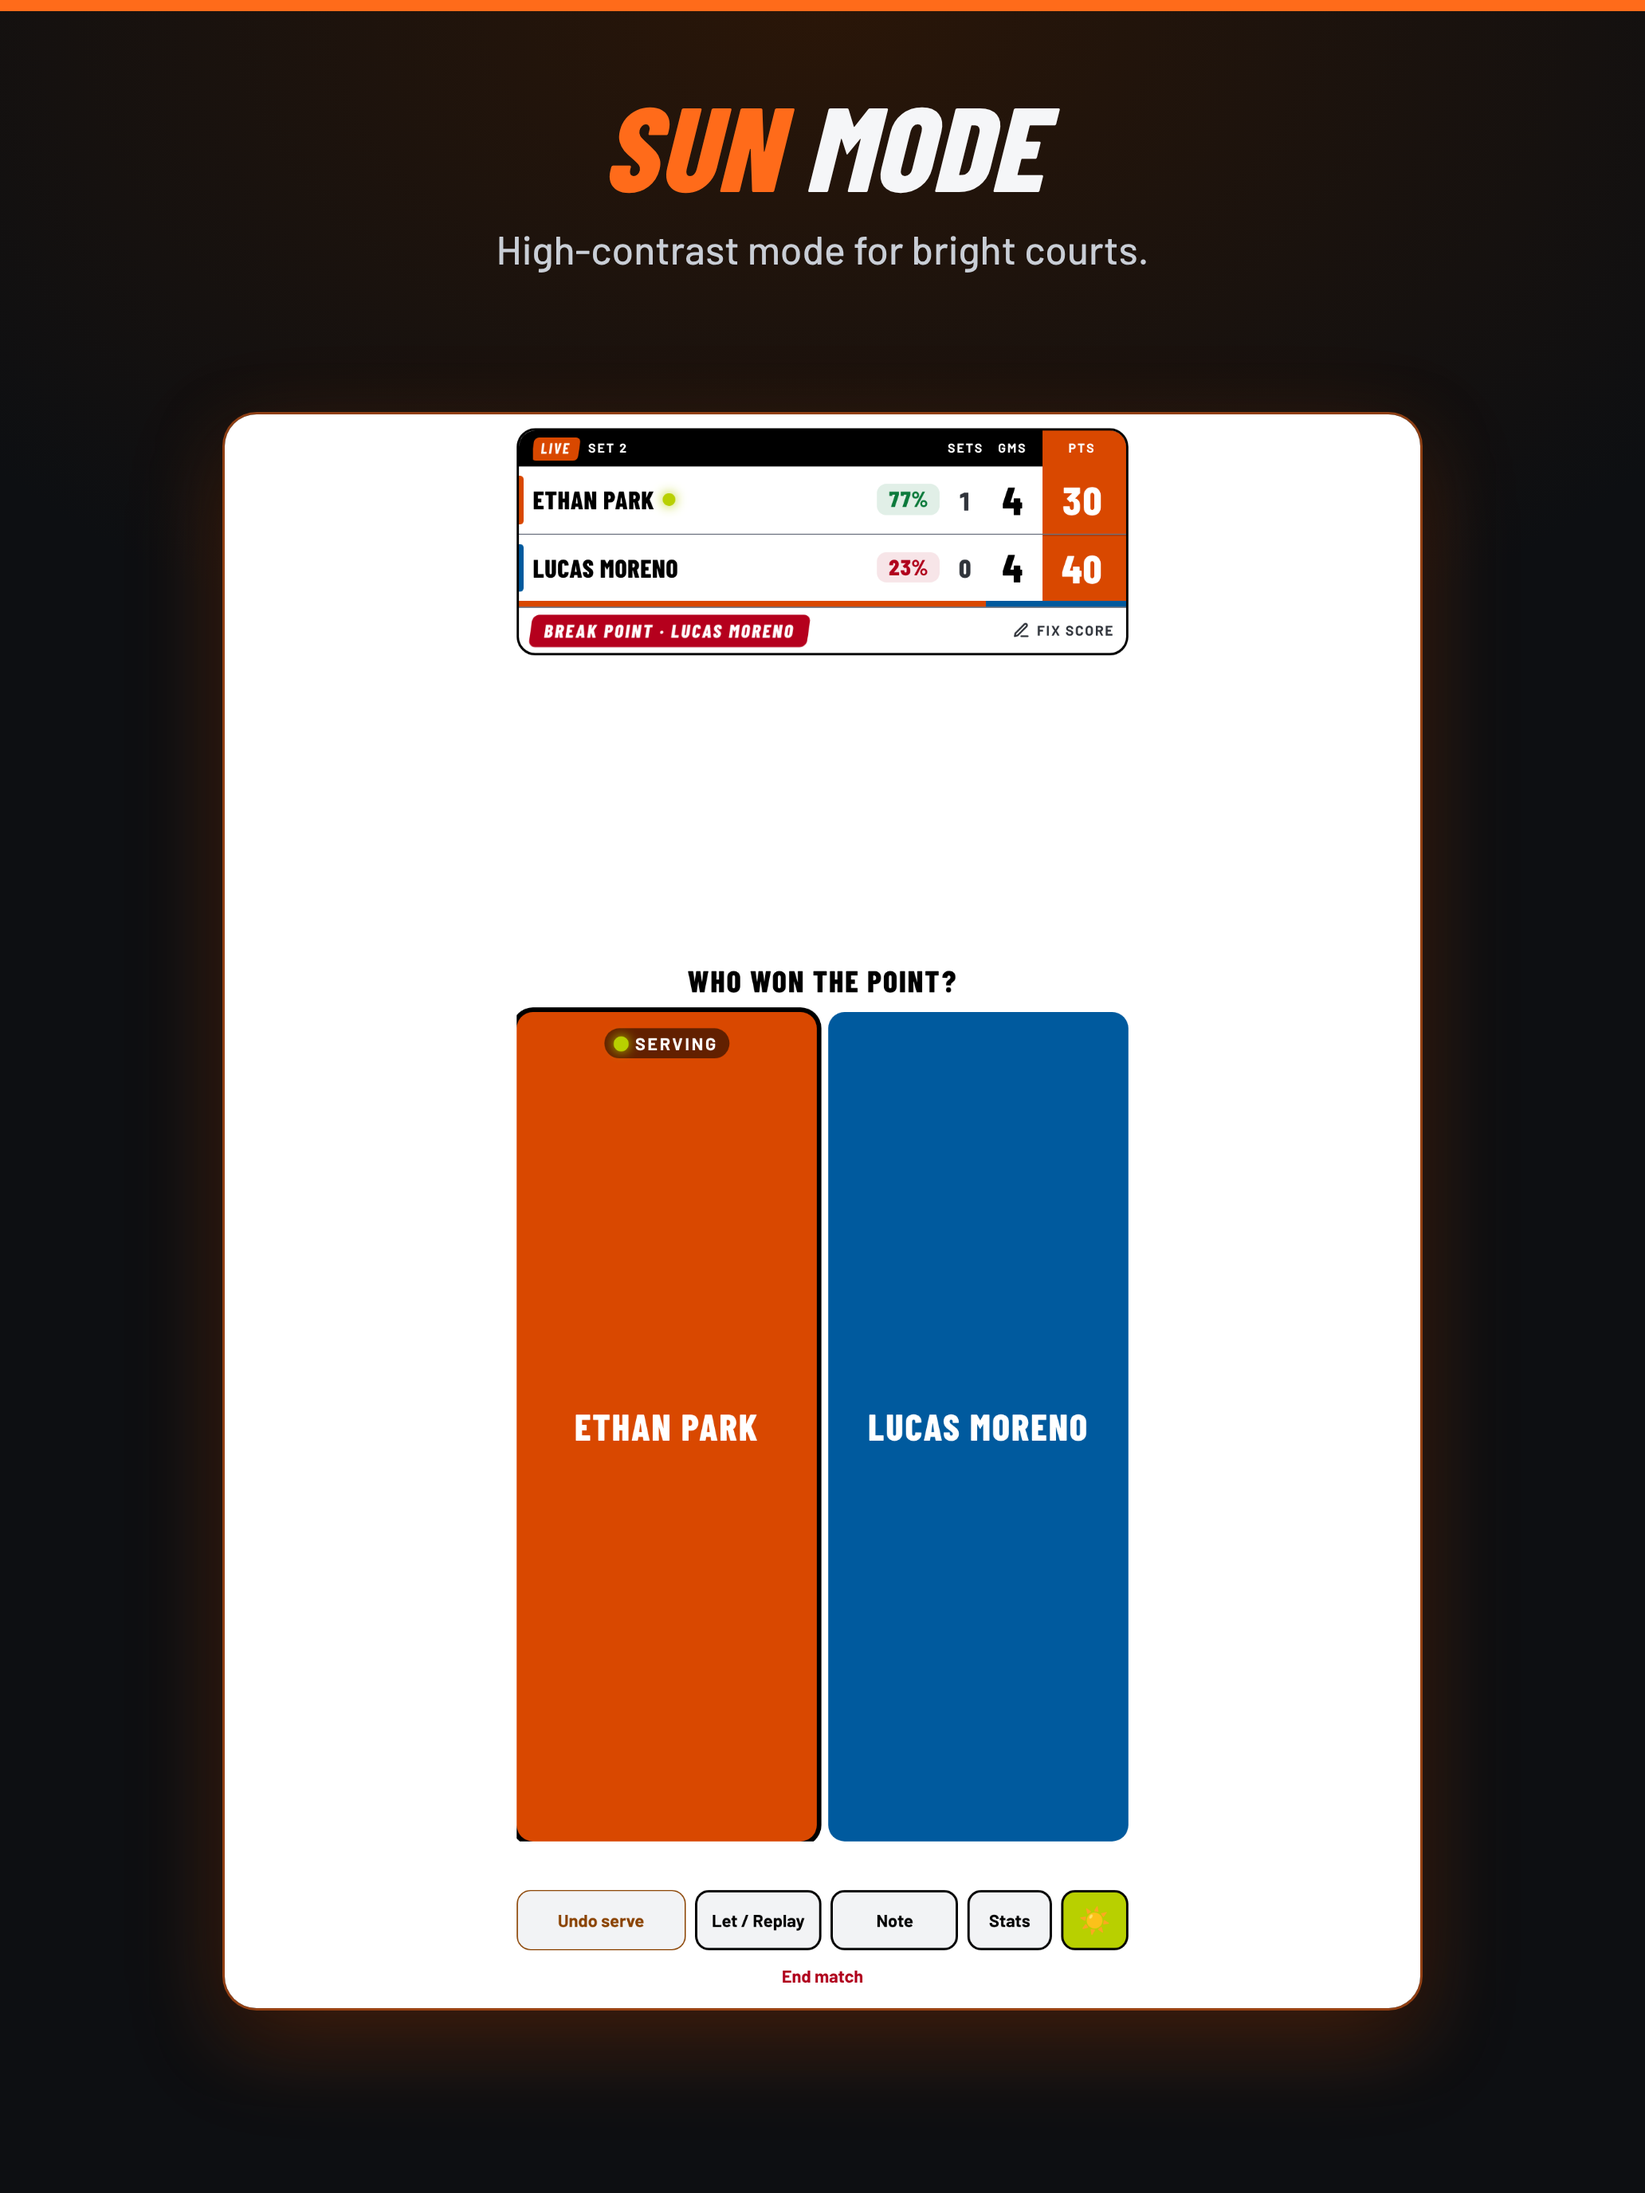
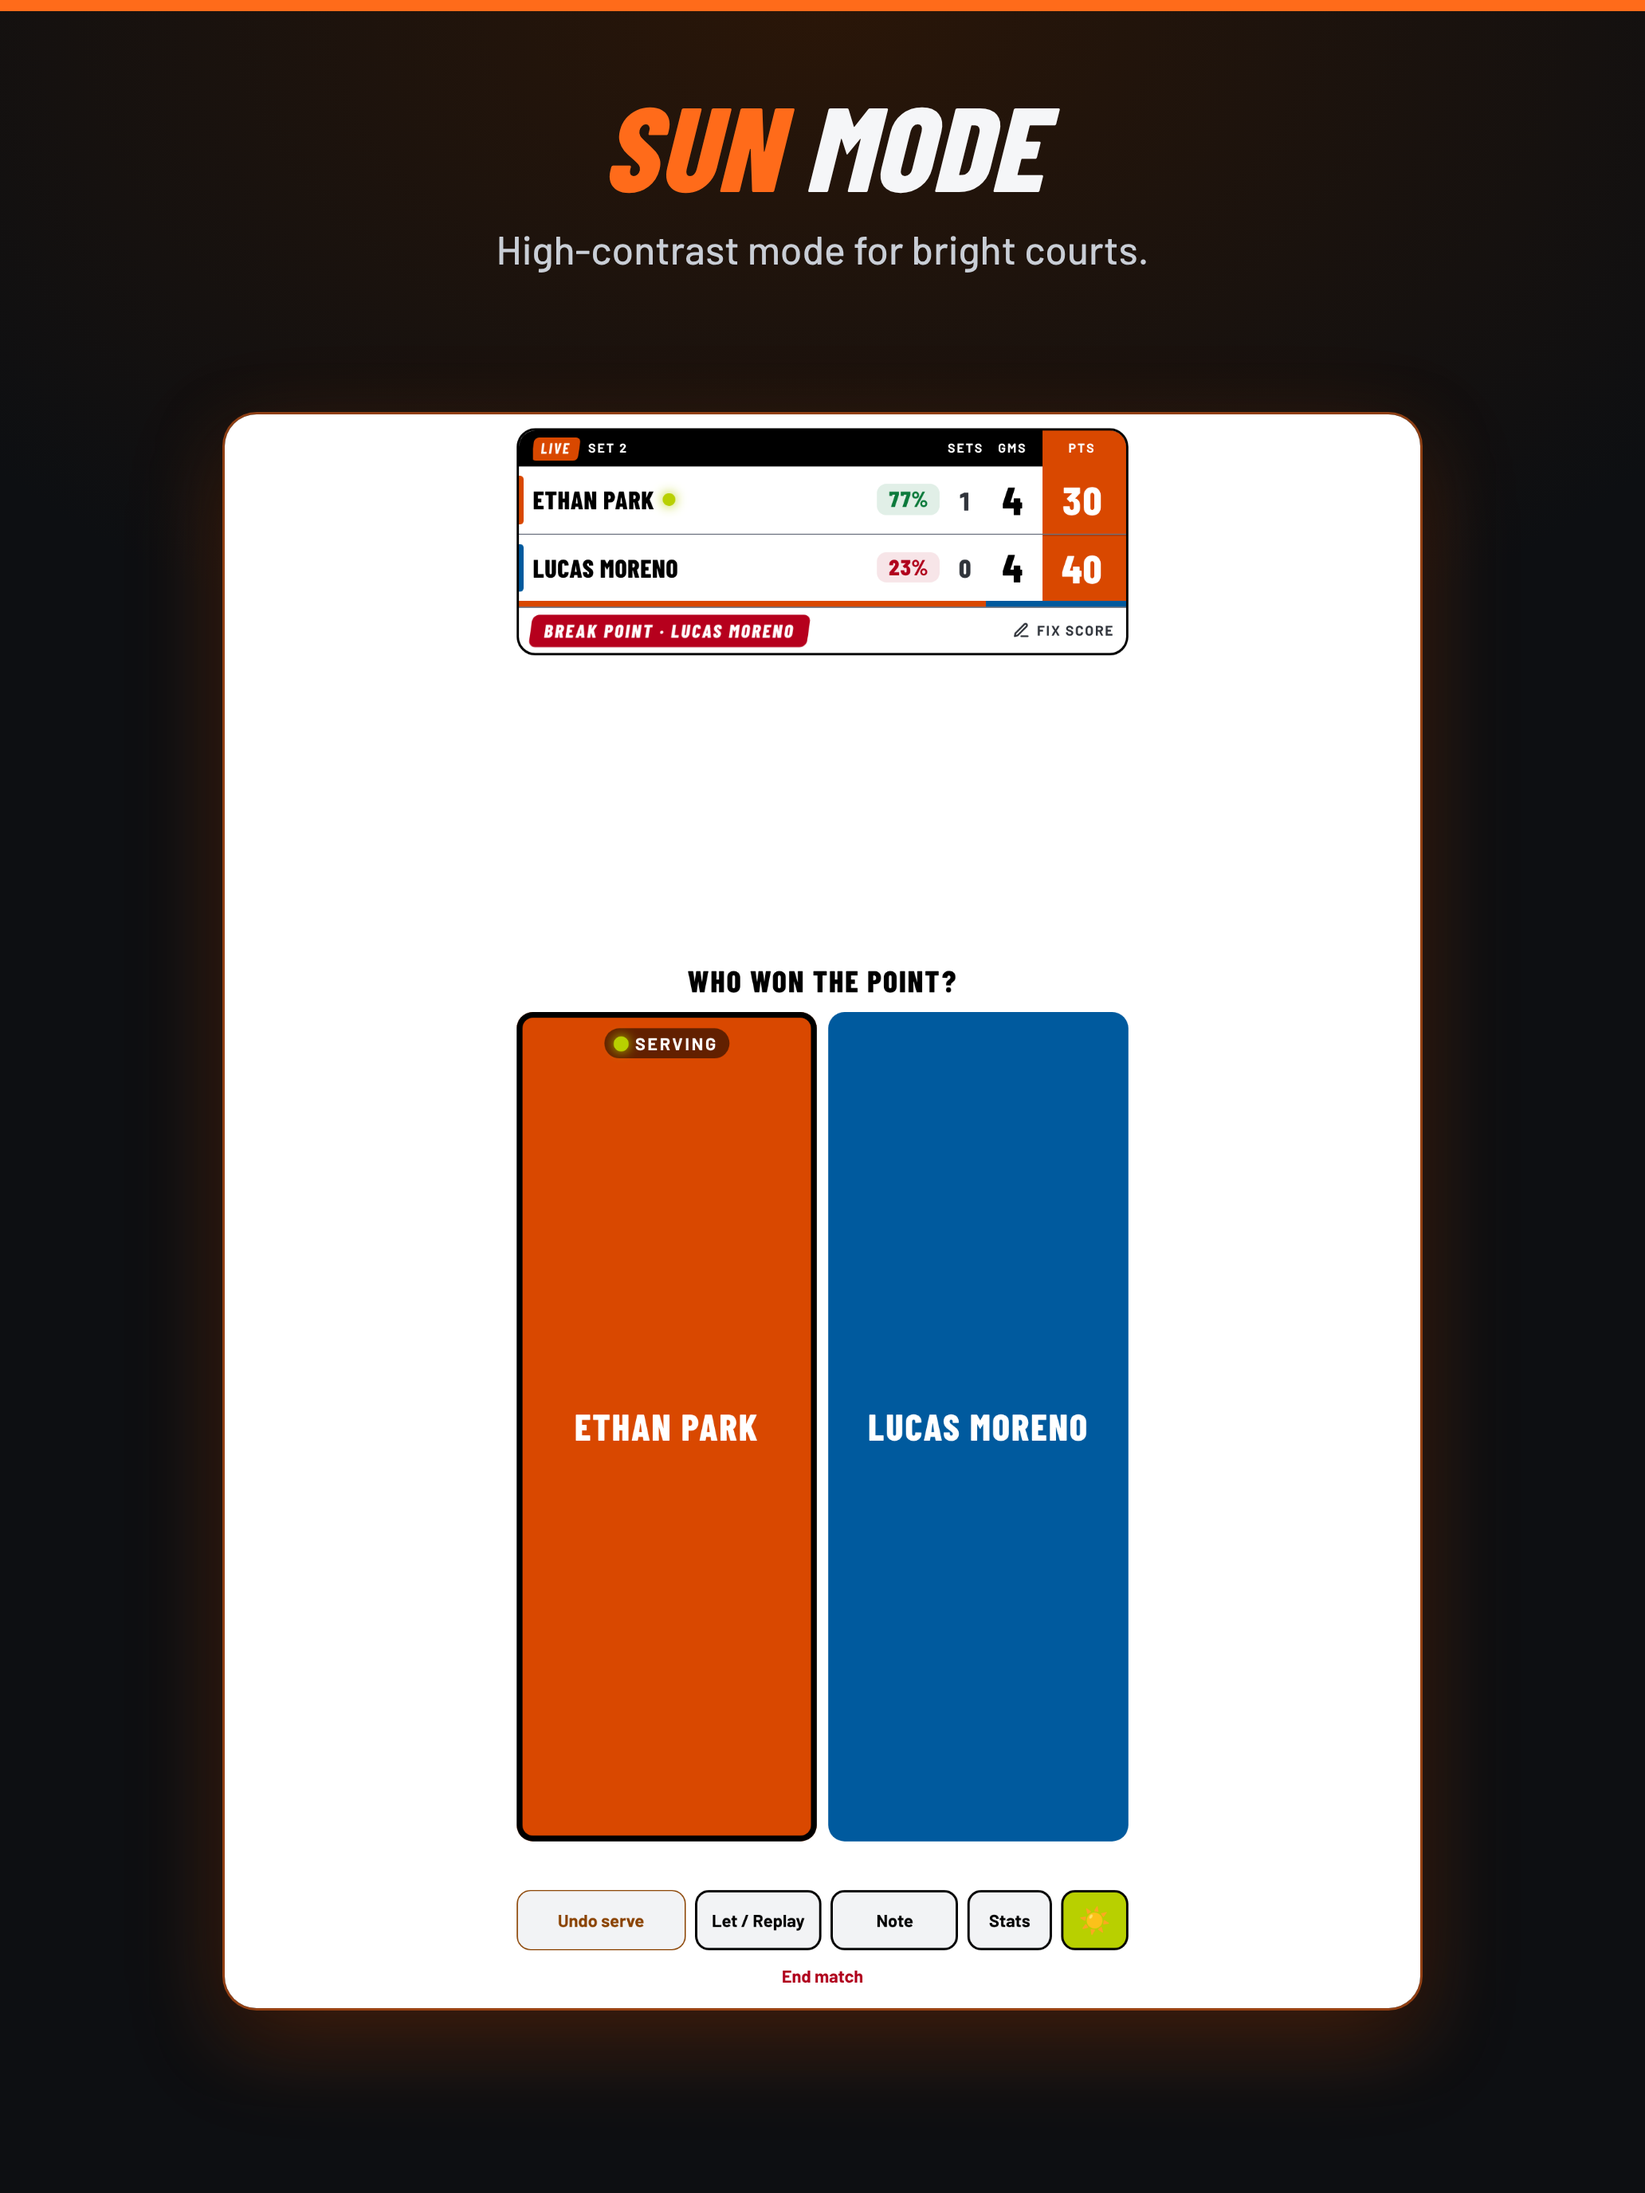
Serving ring drawn inside the button so it is never clipped at the edges
Claude-Session: https://claude.ai/code/session_01PJJEnFSadi4snHTyMEWpU6

Changed region(s): [[0.3101, 0.4375, 0.5271, 0.8438]]

diff --git a/tests/srvshot.js b/tests/srvshot.js
@@ -1,8 +1,8 @@
 const { chromium } = require('playwright'); const path=require('path'); const OUT='/tmp/claude-0/-home-claude/4a0b0a2c-75e0-56c3-8650-556c75370853/scratchpad/mock';
 (async()=>{ const b=await chromium.launch(); const errs=[];
- for(const [w,h,n1,n2] of [[320,568,'Ethan Park','Lucas Moreno'],[375,667,'Ethan Park','Lucas Moreno'],[390,844,'Maximilian Alexander Rodriguez-Hernandez','Christopher Jonathan Montgomery III'],[430,932,'Ava','Jo']]){
+ for(const [w,h,n1,n2] of [[402,874,'My Player','Opponent'],[320,568,'Ethan Park','Lucas Moreno'],[375,667,'Ethan Park','Lucas Moreno'],[390,844,'Maximilian Alexander Rodriguez-Hernandez','Christopher Jonathan Montgomery III'],[430,932,'Ava','Jo']]){
  const p=await (await b.newContext({viewport:{width:w,height:h},deviceScaleFactor:2,isMobile:true,hasTouch:true})).newPage(); p.on('pageerror',e=>errs.push(e.message));
  await p.goto('file://'+path.resolve(__dirname,'../www/index.html')); await p.evaluate(()=>localStorage.clear()); await p.reload(); await p.evaluate(()=>document.fonts.ready);
- await p.fill('#p2name',n2); await p.fill('#p1name',n1); await p.click('#btn-start'); await p.waitForTimeout(300); await p.click('#sf-p2'); await p.waitForTimeout(300);
+ await p.fill('#p2name',n2); await p.fill('#p1name',n1); await p.click('#btn-start'); await p.waitForTimeout(300); await p.click(n1==='My Player'?'#sf-p1':'#sf-p2'); await p.waitForTimeout(300);
  await p.click('#sv-in'); await p.waitForTimeout(400); await p.screenshot({path:`${OUT}/s_${w}.png`}); }
  await b.close(); console.log(errs.length?errs:'no page errors'); })();

diff --git a/www/index.html b/www/index.html
@@ -84,10 +84,10 @@ h2{font-size:24px}
 /* Who-won: highlight the server's button (buttons never move) */
 .stage>.row #w-p1,.stage>.row #w-p2{position:relative;padding-top:clamp(30px,6vh,44px);padding-bottom:clamp(30px,6vh,44px)}
 .stage>.row .wn{display:-webkit-box;-webkit-line-clamp:4;-webkit-box-orient:vertical;overflow:hidden;max-width:100%}
-.big.srv{box-shadow:0 0 0 3px var(--ball),0 0 26px rgba(230,255,59,.32)}
+.big.srv{box-shadow:inset 0 0 0 4px var(--ball),inset 0 0 24px rgba(230,255,59,.35)}
 .srvtag{position:absolute;top:clamp(8px,1.8vh,14px);left:50%;transform:translateX(-50%);display:inline-flex;align-items:center;gap:6px;font-family:var(--body);font-size:clamp(12px,3.4vw,15px);font-weight:700;letter-spacing:.12em;text-transform:uppercase;background:rgba(0,0,0,.3);color:#fff;padding:4px 10px 4px 8px;border-radius:999px;line-height:1.2;flex:none;white-space:nowrap}
 .srvtag i{width:clamp(10px,2.8vw,13px);height:clamp(10px,2.8vw,13px);border-radius:50%;background:var(--ball);box-shadow:0 0 10px var(--ball);flex:none}
-:root.sun .big.srv{box-shadow:0 0 0 4px #000}
+:root.sun .big.srv{box-shadow:inset 0 0 0 5px #000}
 :root.sun .srvtag{background:rgba(0,0,0,.55)}
 @media (max-height:640px){.srvtag{font-size:11px;padding:3px 8px}}
 @media (prefers-reduced-motion:no-preference){.big.srv{transition:box-shadow .25s}}
